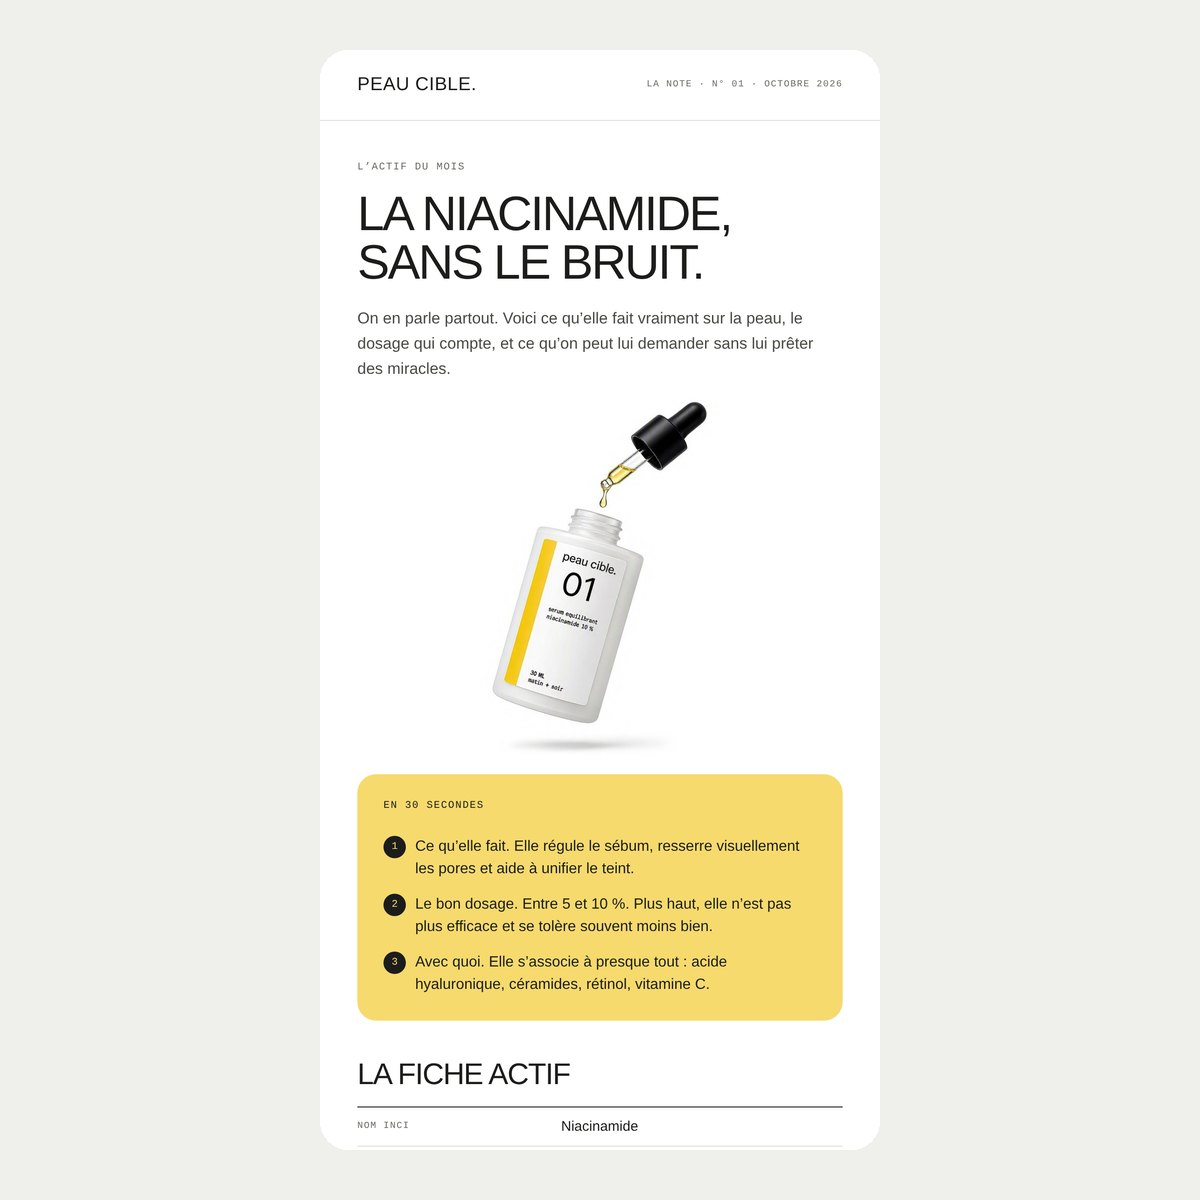
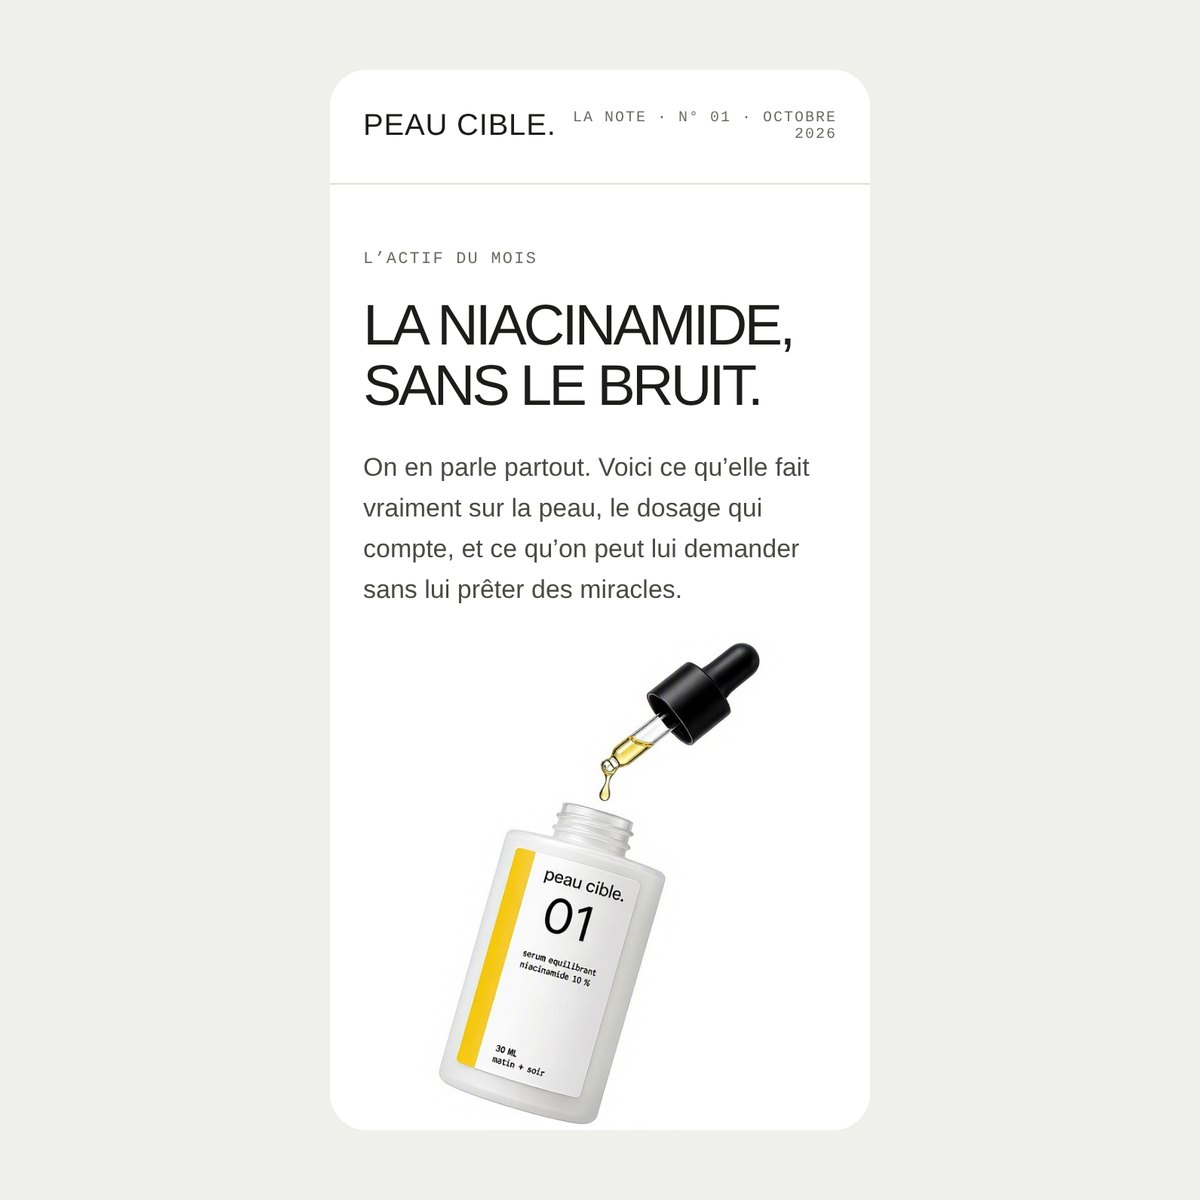
Peau Cible : ajoute la newsletter complète à la page projet
- Newsletter La Note N° 01 en entier (deux colonnes) avec lien vers la version en ligne
- Newsletter mobile à côté du site mobile
- Remplace le marqueur d'adresse postale par une adresse de marque fictive

Claude-Session: https://claude.ai/code/session_01FzwBmncj8JGb2dSua4z4Jr

Changed region(s): [[0.2775, 0.0617, 0.7092, 0.9558], [0.6475, 0.0925, 0.7092, 0.1233]]

diff --git a/projects/peau-cible.html b/projects/peau-cible.html
@@ -81,14 +81,19 @@
   <div class="proj-grid-2">
   <figure class="proj-figure reveal" style="--i:6">
     <img src="../book-assets/peau-cible-05-mobile.jpg" alt="Site Peau Cible sur mobile" loading="lazy">
-    <figcaption>Version mobile — visuel en tête, menu burger.</figcaption>
+    <figcaption>Le site sur mobile — visuel en tête, menu burger.</figcaption>
   </figure>
   <figure class="proj-figure reveal" style="--i:7">
-    <img src="../book-assets/peau-cible-06-newsletter.jpg" alt="Newsletter La Note Peau Cible consacrée à la niacinamide" loading="lazy">
-    <figcaption>La Note — newsletter mensuelle, un actif expliqué en 30 secondes.</figcaption>
+    <img src="../book-assets/peau-cible-06-newsletter.jpg" alt="Newsletter La Note Peau Cible sur mobile" loading="lazy">
+    <figcaption>La newsletter sur mobile — une seule colonne, boutons pleine largeur.</figcaption>
   </figure>
   </div>
-  <div class="proj-cta reveal" style="--i:8"><a class="btn btn-solid" href="../peau-cible/index.html">Essayer le site →</a><p>Filtrez les sérums, faites le diagnostic, composez votre sérum et passez commande (simulée). <a href="../peau-cible/newsletter.html">Voir la newsletter</a>.</p></div>
+  <div class="proj-text reveal" style="--i:8"><p class="lede">La Note, la newsletter mensuelle. Un actif expliqué en 30 secondes, sa fiche d’identité, le sérum qui le contient, la routine du mois et une question de lectrice. Le même ton que l’étiquette&nbsp;: court, chiffré, sans promesse.</p></div>
+  <figure class="proj-figure wide reveal" style="--i:9">
+    <img src="../book-assets/peau-cible-07-newsletter-complete.jpg" alt="Newsletter La Note N° 01 en entier : la niacinamide, fiche actif, sérum Équilibrant, routine du mois, sur mesure" loading="lazy">
+    <figcaption>La Note N° 01, en entier — e-mail de 600 px, compatible Brevo et Mailchimp. <a href="../peau-cible/newsletter.html">Ouvrir la newsletter →</a></figcaption>
+  </figure>
+  <div class="proj-cta reveal" style="--i:10"><a class="btn btn-solid" href="../peau-cible/index.html">Essayer le site →</a><p>Filtrez les sérums, faites le diagnostic, composez votre sérum et passez commande (simulée). <a href="../peau-cible/newsletter.html">Voir la newsletter</a>.</p></div>
 </div>
 
 <div class="proj-footnav">

diff --git a/peau-cible/newsletter.html b/peau-cible/newsletter.html
@@ -154,7 +154,7 @@ a{color:var(--carbon)}
     <table role="presentation" width="100%" cellpadding="0" cellspacing="0" style="border-top:1px solid #DFDFD9"><tr><td style="padding-top:24px">
       <p style="margin:0;font-family:'Onest',Helvetica,Arial,sans-serif;font-size:18px;font-weight:500;letter-spacing:.02em;color:#1C1C1A">PEAU CIBLE.</p>
       <p style="margin:6px 0 0;font-family:'Onest',Helvetica,Arial,sans-serif;font-size:14px;color:#4A4A45">Le soin actif, rendu lisible.</p>
-      <p style="margin:18px 0 0;font-family:'Onest',Helvetica,Arial,sans-serif;font-size:12px;line-height:19px;color:#6B6B64">Vous recevez cette note parce que vous vous êtes inscrit·e sur notre site.<br>[ADRESSE POSTALE]</p>
+      <p style="margin:18px 0 0;font-family:'Onest',Helvetica,Arial,sans-serif;font-size:12px;line-height:19px;color:#6B6B64">Vous recevez cette note parce que vous vous êtes inscrit·e sur notre site.<br>Peau Cible · Paris, France (marque fictive)</p>
       <p style="margin:12px 0 0;font-family:'Onest',Helvetica,Arial,sans-serif;font-size:12px;color:#6B6B64"><a href="newsletter.html" style="color:#1C1C1A">Voir en ligne</a> &nbsp;·&nbsp; <a href="index.html#top" style="color:#1C1C1A">Gérer mes préférences</a> &nbsp;·&nbsp; <a href="index.html#top" style="color:#1C1C1A">Se désinscrire</a></p>
     </td></tr></table>
   </td></tr>
